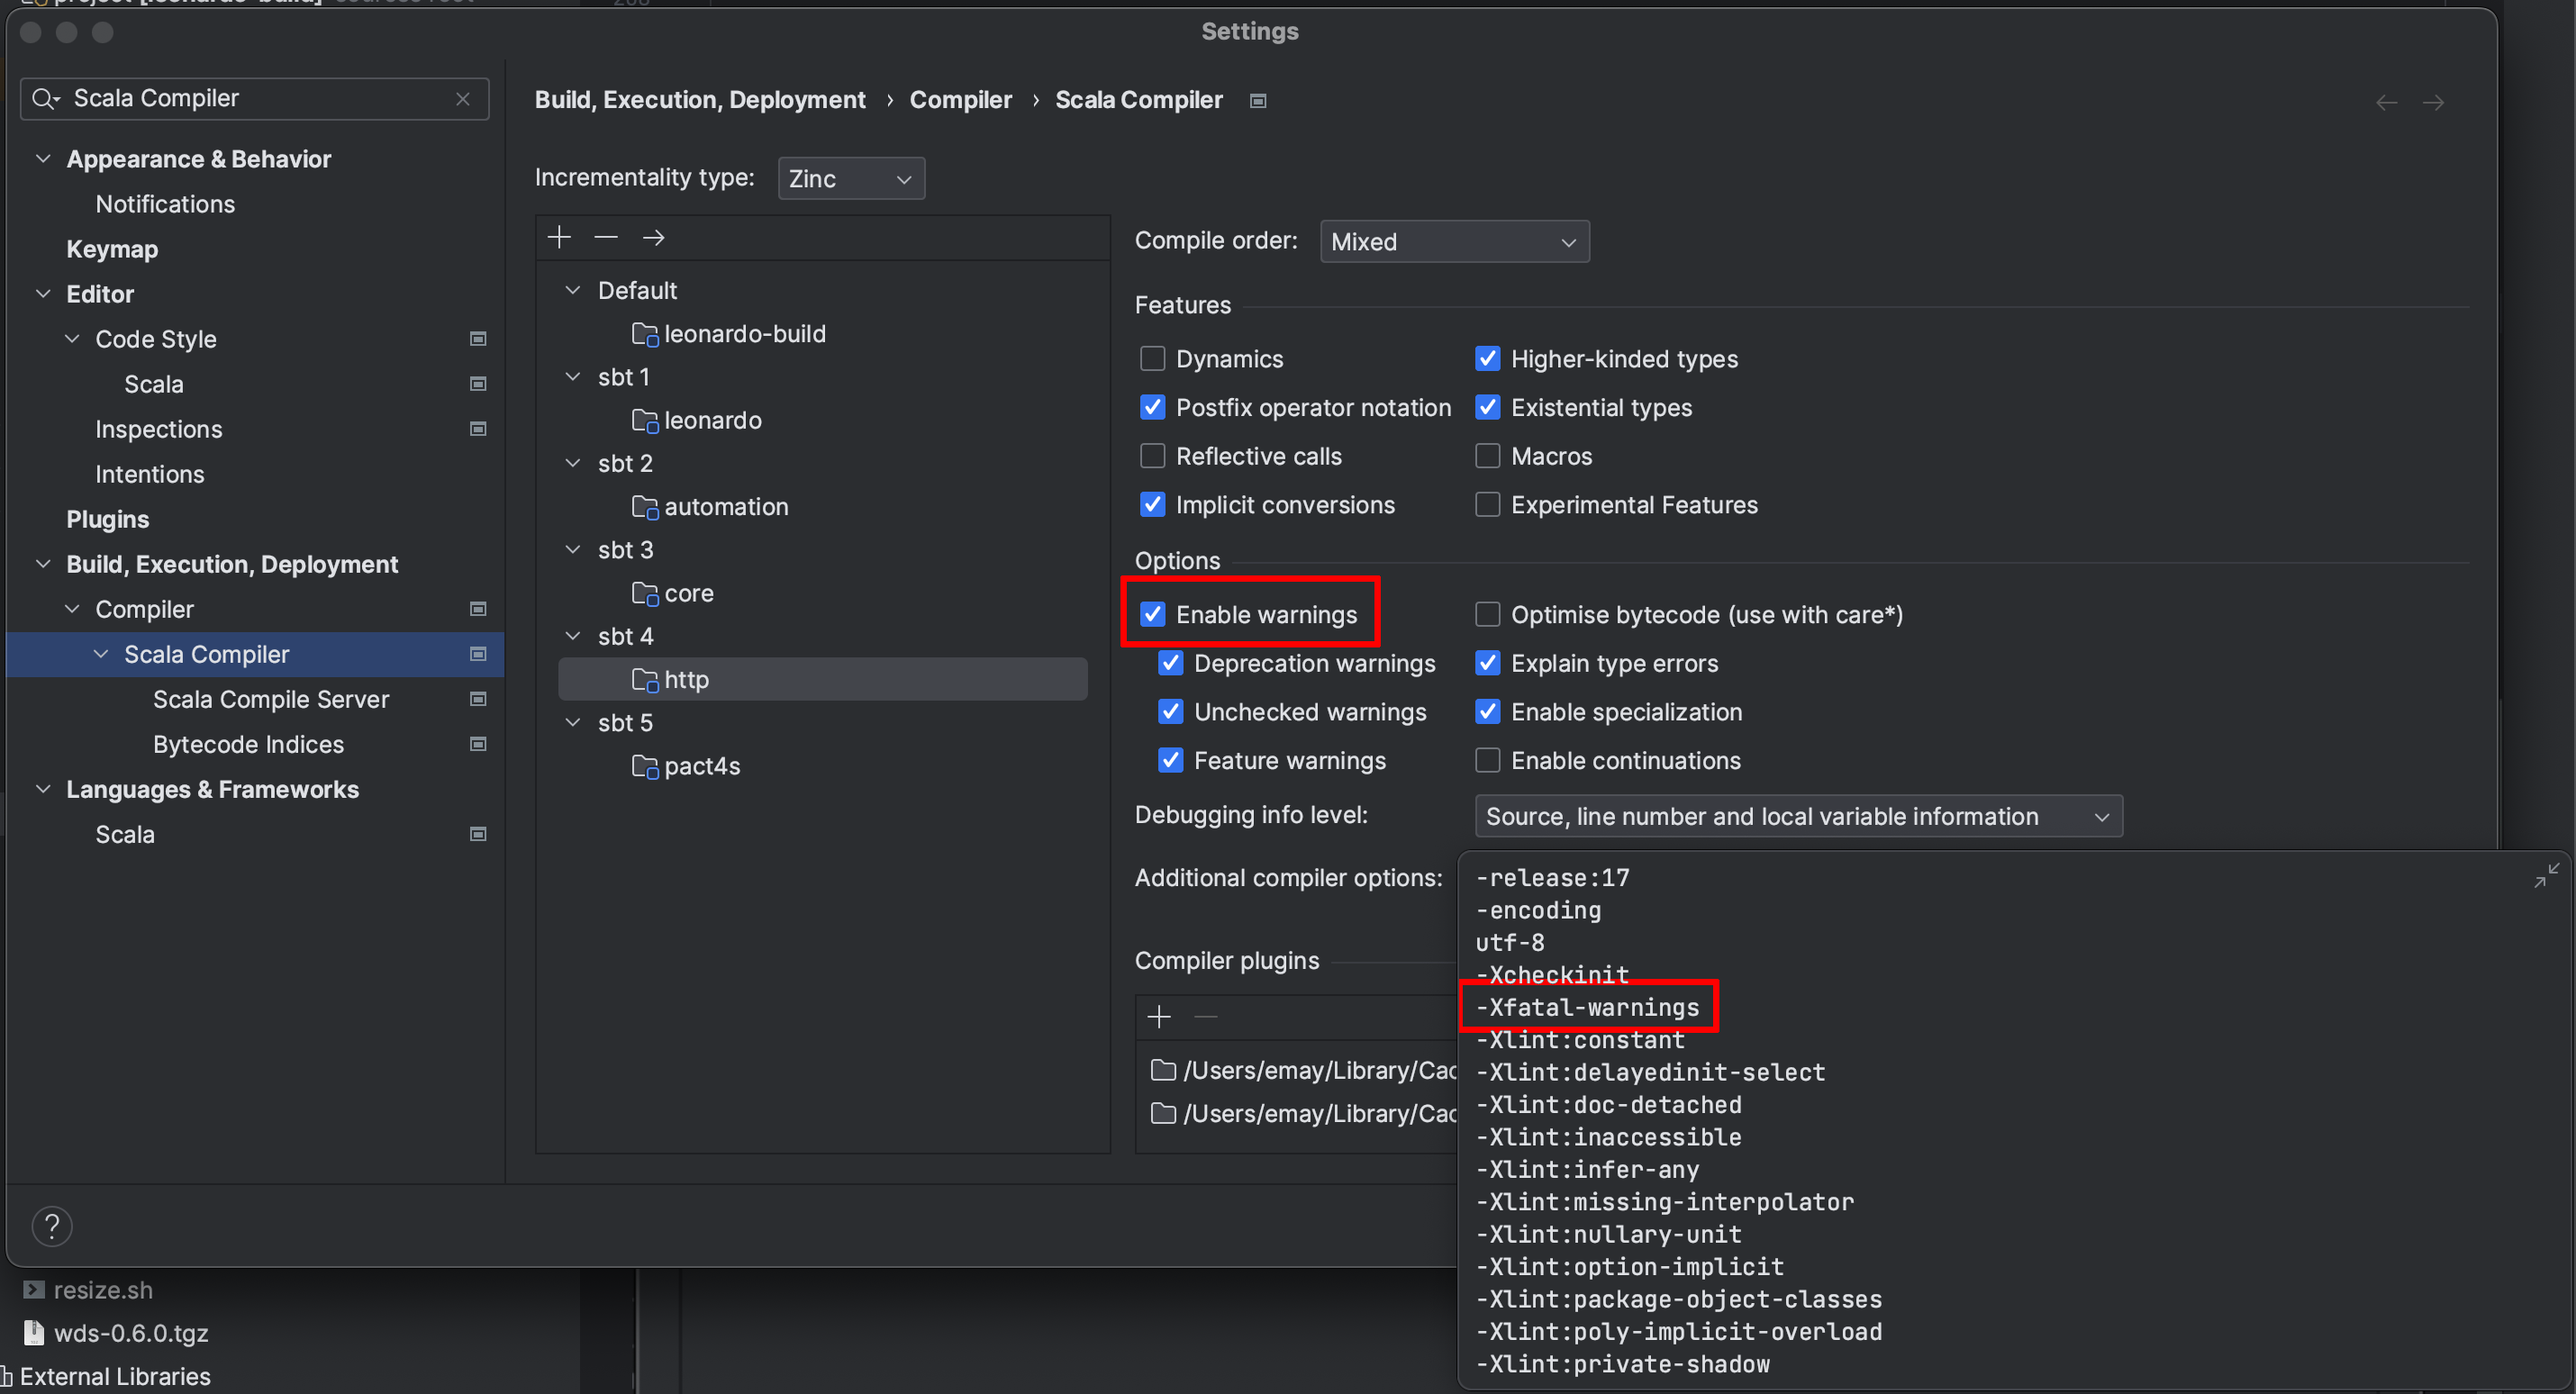
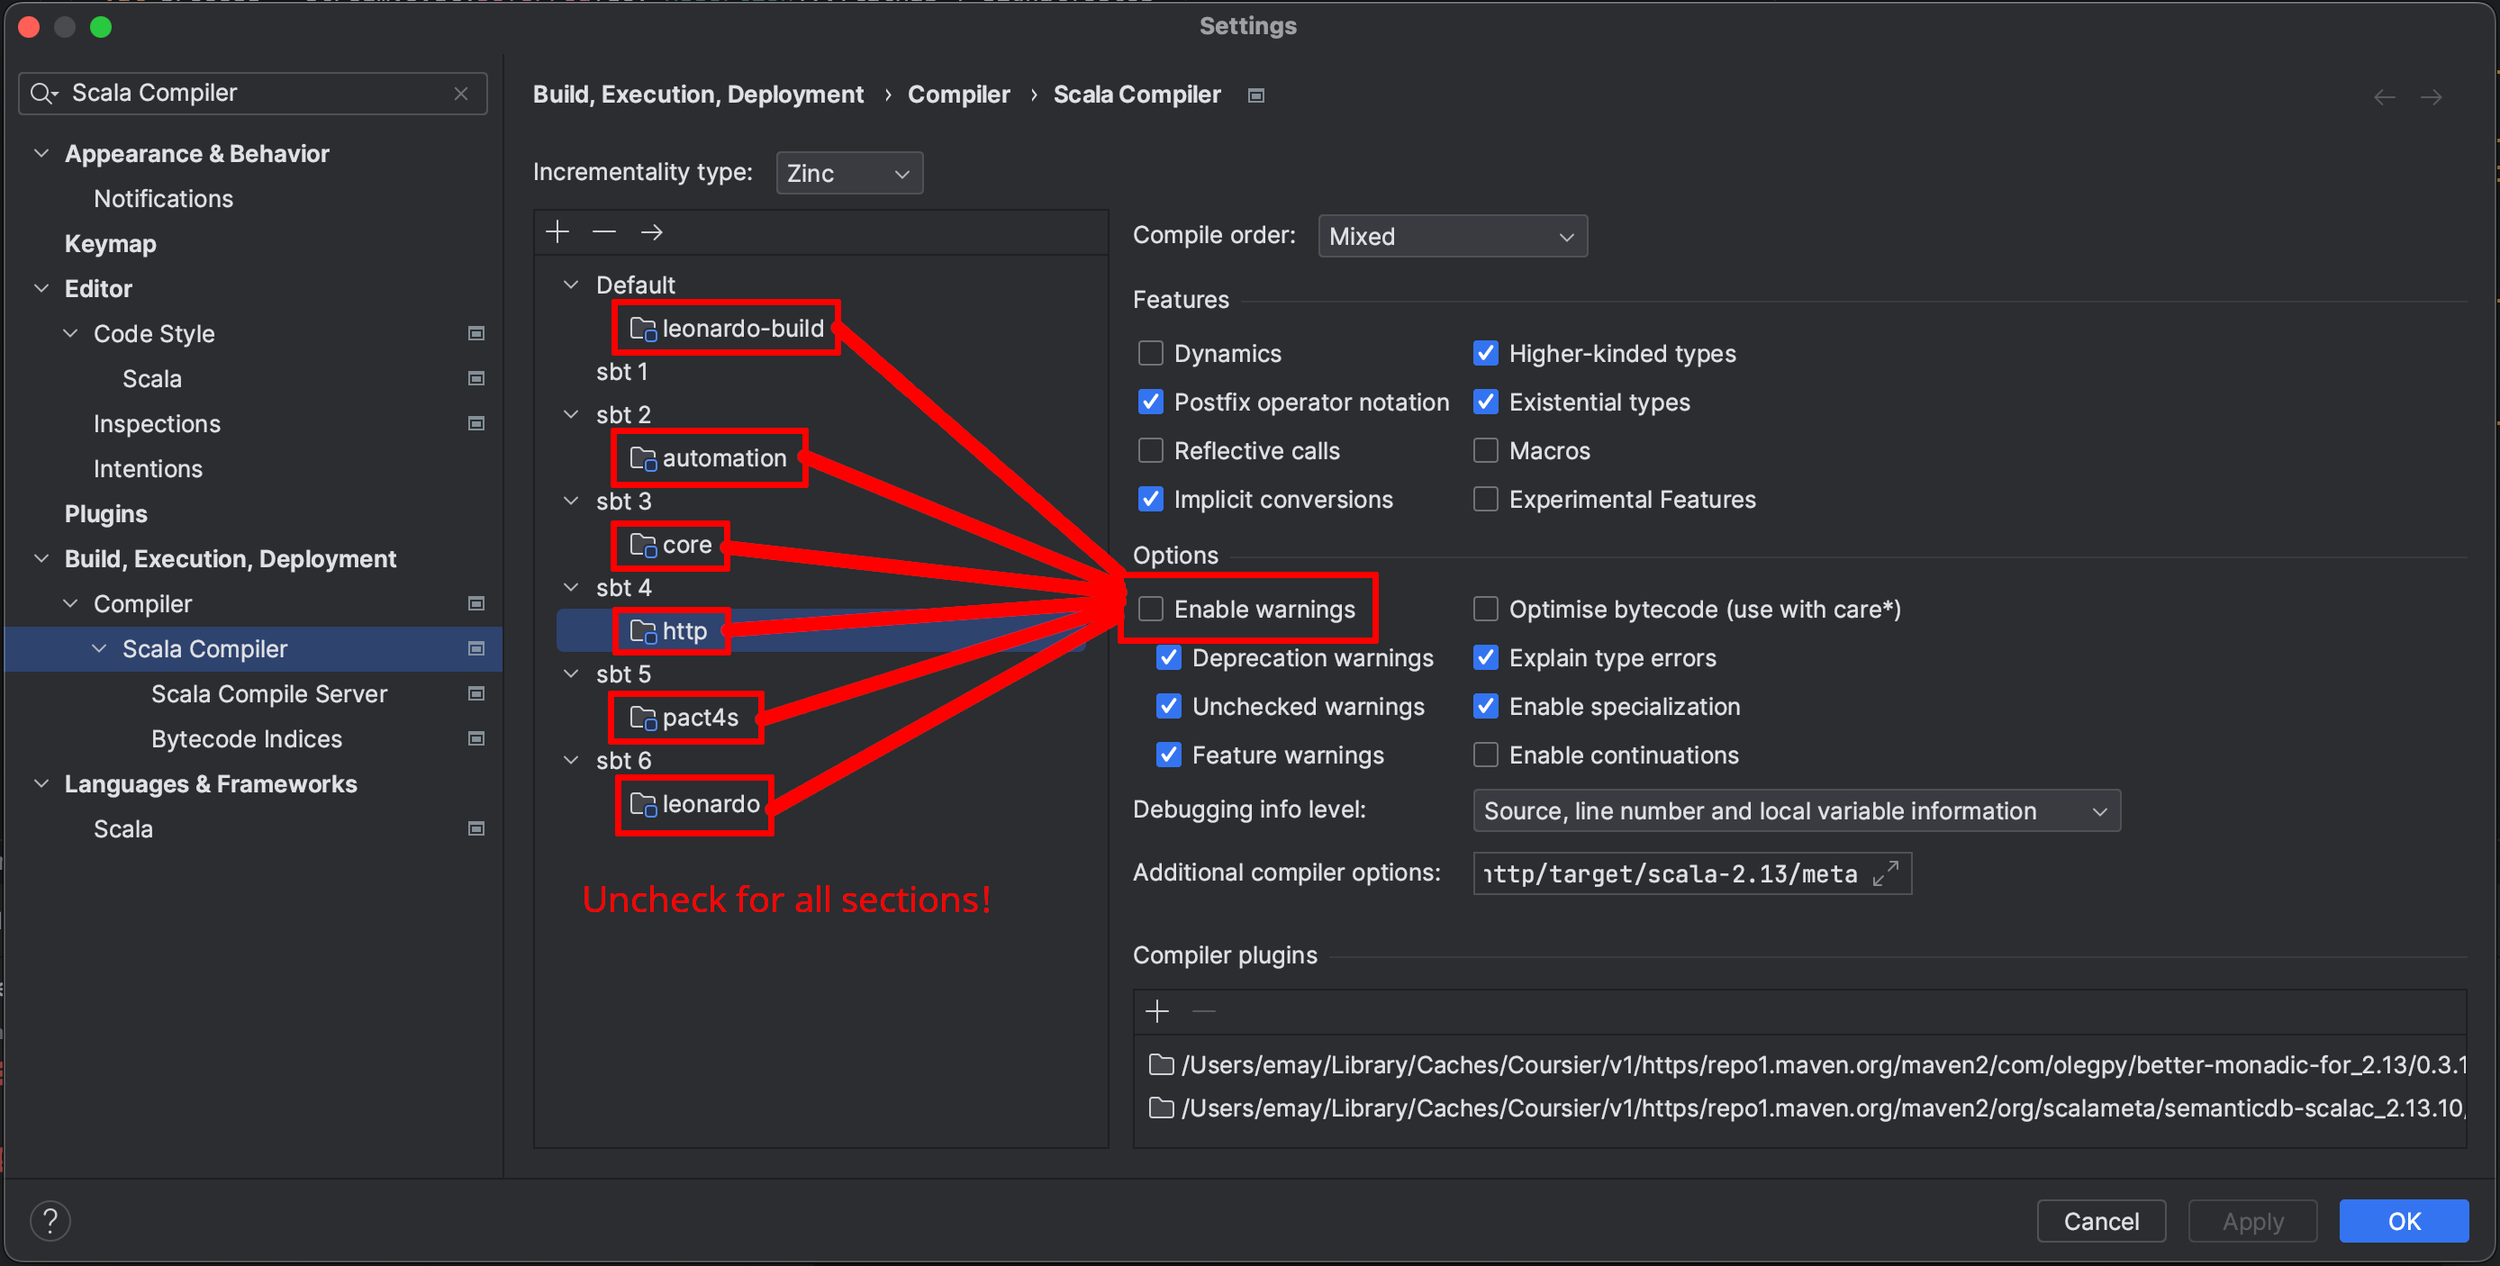
Fix readme test instructions for IntelliJ

diff --git a/README.md b/README.md
@@ -225,7 +225,8 @@ Open `Environment variables` (labeled "2" above) and uncheck `Include system env
 ![ScalaTest template env vars](screenshots/intellij_local_leo_test_edit_templates_scalatest_env_vars_uncheck.png)
 2. Change Scala compiler options in IntelliJ settings
 
-IntelliJ isn't smart enough to set compiler flags differently between the source and test targets. To hack around this, open `Settings > Build, Execution, Deployment > Compier > Scala Compiler` and select the `http` module. Then either uncheck `Enable warnings` or remove `-Xfatal-warnings`.
+IntelliJ isn't smart enough to set compiler flags differently between the source and test targets. To hack around this, open `Settings > Build, Execution, Deployment > Compier > Scala Compiler` and select the **each** module. Then either uncheck `Enable warnings`.
+
 **NOTE: These changes may revert when you reload the sbt project!** Repeat this step to fix tests complaining about warnings that have been turned into errors.
 ![Scalac options](screenshots/intellij_local_leo_test_scalac_options.png)
 3. Make sure the local MySQL server is running by following the instructions in [Run Leonardo unit tests](#run-leonardo-unit-tests).
